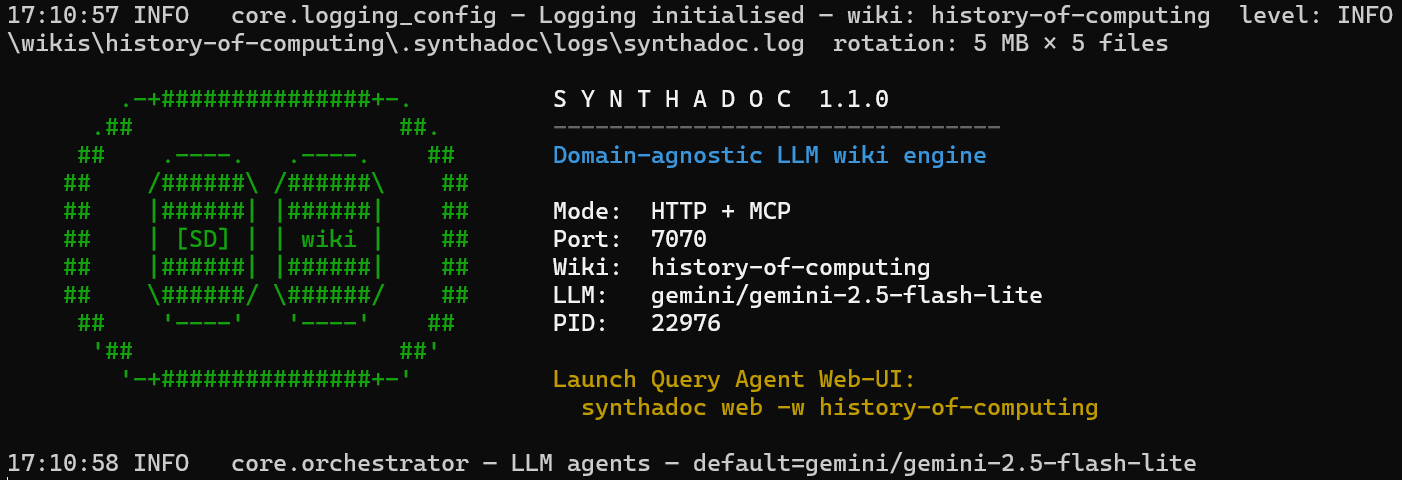
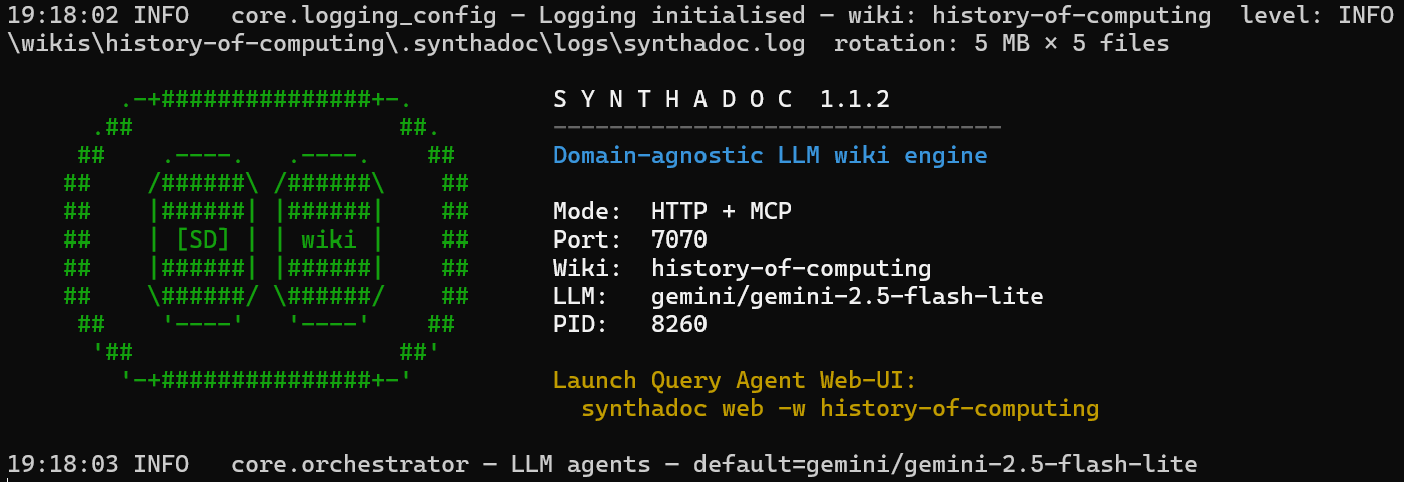
fix: Scheduled job subprocess has no timeout: can hang the scheduler loop indefinitely + v1.1.2 prep (#248)
* fix(live-test): increase streaming token audit timeout to 120s/150s

Under concurrent load (scaffold, ingest, lint, MCP all running during
the live suite), the asyncio event loop can be backlogged enough that
wall-clock time inside asyncio.timeout(60) exceeds the budget even
though actual LLM work takes ~6 seconds.  The context budget test
already uses 120/150 for the same reason; align this test to match.

* fix(orchestrator): remove duplicate imports of CostEstimate and CostGateError

* fix(scheduler): guard proc.communicate() with asyncio.wait_for timeout

A hanging subprocess (LLM call that never returns, llm_timeout_seconds=0)
would block _run_scheduled_job forever and prevent any subsequent
scheduled jobs from firing.

Wraps proc.communicate() with asyncio.wait_for(timeout=job_timeout_seconds).
On timeout: kill the process, record the run as failed, log a warning.
On CancelledError: kill the process before re-raising.

job_timeout_seconds is read from cfg.server.job_timeout_seconds (default
600 s); the function-level fallback is 900 s for callers without config.

* fix(scheduler): align job_timeout_seconds default to 600s (matches ServerConfig)

* fix(scheduler): make job_timeout_seconds required — no silent hardcoded fallback

* test(scheduler): cover _run_scheduled_job timeout and outcome paths

Three new async unit tests verify the subprocess timeout/kill fix:
timeout: hanging proc triggers TimeoutError, proc.kill() called, audit records failed
[…]

diff --git a/synthadoc/core/scheduler.py b/synthadoc/core/scheduler.py
@@ -104,7 +104,9 @@ class Scheduler:
 # Server-side scheduler loop — runs inside synthadoc serve
 # ------------------------------------------------------------------
 
-async def run_scheduler_loop(wiki: str, wiki_root: Path, audit_db: "AuditDB") -> None:
+async def run_scheduler_loop(
+    wiki: str, wiki_root: Path, audit_db: "AuditDB", job_timeout_seconds: int
+) -> None:
     """Asyncio background task: fire scheduled jobs at their cron times."""
     while True:
         now = datetime.now()
@@ -117,7 +119,7 @@ async def run_scheduler_loop(wiki: str, wiki_root: Path, audit_db: "AuditDB") ->
             for entry in sched._load_raw():
                 if _matches_cron(entry.get("cron", ""), now):
                     asyncio.create_task(
-                        _run_scheduled_job(entry, wiki, wiki_root, audit_db)
+                        _run_scheduled_job(entry, wiki, wiki_root, audit_db, job_timeout_seconds)
                     )
         except asyncio.CancelledError:
             raise
@@ -125,8 +127,18 @@ async def run_scheduler_loop(wiki: str, wiki_root: Path, audit_db: "AuditDB") ->
             logger.warning("scheduler loop error: %s", exc)
 
 
+def _kill_proc(proc: object) -> None:
+    """Kill a subprocess, silently ignoring errors (already exited, no permission, etc.)."""
+    if proc is not None:
+        try:
+            proc.kill()  # type: ignore[union-attr]
+        except Exception:
+            pass
+
+
 async def _run_scheduled_job(
-    entry: dict, wiki: str, wiki_root: Path, audit_db: "AuditDB"
+    entry: dict, wiki: str, wiki_root: Path, audit_db: "AuditDB",
+    job_timeout_seconds: int,
 ) -> None:
     """Execute one scheduled job and record the result in the audit DB."""
     run_id = f"run-{uuid.uuid4().hex[:8]}"
@@ -137,6 +149,7 @@ async def _run_scheduled_job(
     logger.info("[schedule] %s  %s  starting", run_id, op)
 
     t0 = time.monotonic()
+    proc = None
     try:
         proc = await asyncio.create_subprocess_exec(
             sys.executable, "-m", "synthadoc", "-w", wiki,
@@ -146,7 +159,9 @@ async def _run_scheduled_job(
             stderr=asyncio.subprocess.PIPE,
             env={**os.environ, "PYTHONIOENCODING": "utf-8"},
         )
-        stdout, stderr = await proc.communicate()
+        stdout, stderr = await asyncio.wait_for(
+            proc.communicate(), timeout=job_timeout_seconds
+        )
         duration = time.monotonic() - t0
         out = _truncate_output(stdout.decode(errors="replace").strip() if stdout else "")
 
@@ -159,7 +174,14 @@ async def _run_scheduled_job(
                 err += f": {stderr.decode(errors='replace').strip()[:300]}"
             await audit_db.record_scheduled_run_finish(run_id, "failed", duration, err, out)
             logger.warning("[schedule] %s  %s  %.1fs  failed (%s)", run_id, op, duration, err)
+    except asyncio.TimeoutError:
+        duration = time.monotonic() - t0
+        _kill_proc(proc)
+        err = f"timed out after {job_timeout_seconds}s"
+        await audit_db.record_scheduled_run_finish(run_id, "failed", duration, err)
+        logger.warning("[schedule] %s  %s  %.1fs  %s", run_id, op, duration, err)
     except asyncio.CancelledError:
+        _kill_proc(proc)
         raise
     except Exception as exc:
         duration = time.monotonic() - t0

diff --git a/tests/core/test_scheduler.py b/tests/core/test_scheduler.py
@@ -1,6 +1,9 @@
 # SPDX-License-Identifier: AGPL-3.0-or-later
 # Copyright (C) 2026 Paul Chen / axoviq.com
-from synthadoc.core.scheduler import Scheduler, ScheduleEntry
+import asyncio
+from unittest.mock import AsyncMock, MagicMock, patch
+
+from synthadoc.core.scheduler import Scheduler, ScheduleEntry, _run_scheduled_job
 
 
 def test_schedule_entry_parses_cron():
@@ -33,3 +36,64 @@ def test_scheduler_apply_from_config(tmp_path):
     assert len(cfg.schedule.jobs) == 2
     assert cfg.schedule.jobs[0].op == "lint"
     assert cfg.schedule.jobs[1].cron == "0 2 * * *"
+
+
+# ------------------------------------------------------------------
+# _run_scheduled_job — subprocess timeout and outcome recording
+# ------------------------------------------------------------------
+
+async def test_run_scheduled_job_timeout_kills_proc(tmp_path):
+    """Hanging subprocess: TimeoutError kills the process and records 'failed'."""
+    audit_db = AsyncMock()
+
+    async def _hang():
+        await asyncio.sleep(9999)
+
+    mock_proc = MagicMock()
+    mock_proc.kill = MagicMock()
+    mock_proc.communicate = _hang
+
+    entry = {"id": "sched-test-timeout", "op": "lint"}
+
+    with patch("asyncio.create_subprocess_exec", AsyncMock(return_value=mock_proc)):
+        await _run_scheduled_job(entry, "test-wiki", tmp_path, audit_db, job_timeout_seconds=0.05)
+
+    mock_proc.kill.assert_called_once()
+    call = audit_db.record_scheduled_run_finish.call_args
+    assert call.args[1] == "failed"
+    assert "timed out" in call.args[3]
+
+
+async def test_run_scheduled_job_success(tmp_path):
+    """Subprocess exits 0: audit records 'success'."""
+    audit_db = AsyncMock()
+
+    mock_proc = MagicMock()
+    mock_proc.returncode = 0
+    mock_proc.communicate = AsyncMock(return_value=(b"all good", b""))
+
+    entry = {"id": "sched-test-ok", "op": "lint"}
+
+    with patch("asyncio.create_subprocess_exec", AsyncMock(return_value=mock_proc)):
+        await _run_scheduled_job(entry, "test-wiki", tmp_path, audit_db, job_timeout_seconds=30)
+
+    call = audit_db.record_scheduled_run_finish.call_args
+    assert call.args[1] == "success"
+
+
+async def test_run_scheduled_job_nonzero_exit(tmp_path):
+    """Subprocess exits non-zero: audit records 'failed' with exit code message."""
+    audit_db = AsyncMock()
+
+    mock_proc = MagicMock()
+    mock_proc.returncode = 2
+    mock_proc.communicate = AsyncMock(return_value=(b"", b"something failed"))
+
+    entry = {"id": "sched-test-fail", "op": "ingest"}
+
+    with patch("asyncio.create_subprocess_exec", AsyncMock(return_value=mock_proc)):
+        await _run_scheduled_job(entry, "test-wiki", tmp_path, audit_db, job_timeout_seconds=30)
+
+    call = audit_db.record_scheduled_run_finish.call_args
+    assert call.args[1] == "failed"
+    assert "exit code 2" in call.args[3]

diff --git a/tests/live/live_plugin_test.py b/tests/live/live_plugin_test.py
@@ -729,8 +729,8 @@ def _test_streaming_query_audit() -> None:
 
     q = "streaming token audit live test"
     path = (f"/query/stream?q={urllib.parse.quote(q)}"
-            f"&session_id={urllib.parse.quote(session_id)}&no_cache=true&timeout_seconds=60")
-    events = _read_full_sse(path, timeout=90)
+            f"&session_id={urllib.parse.quote(session_id)}&no_cache=true&timeout_seconds=120")
+    events = _read_full_sse(path, timeout=150)
 
     error_events = [e for e in events if e.get("event") == "error"]
     assert not error_events, f"SSE query returned error: {error_events[0]['data']}"

diff --git a/synthadoc/core/orchestrator.py b/synthadoc/core/orchestrator.py
@@ -11,7 +11,7 @@ import logging
 from synthadoc.config import Config, load_config
 from synthadoc.errors import DomainBlockedException
 from synthadoc.core.cache import CacheManager
-from synthadoc.core.cost_guard import CostGuard, CostEstimate, CostGateError, CostEstimate, CostGateError
+from synthadoc.core.cost_guard import CostGuard, CostEstimate, CostGateError
 from synthadoc.core.hooks import HookExecutor
 from synthadoc.core.queue import JobQueue
 from synthadoc.observability.telemetry import get_tracer, setup_telemetry

diff --git a/synthadoc/integration/http_server.py b/synthadoc/integration/http_server.py
@@ -576,7 +576,8 @@ def create_app(wiki_root: Path, max_body_bytes: int = _MAX_BODY_BYTES, enable_mc
         # no second init() call needed here.
         audit_db = _AuditDB(wiki_root / ".synthadoc" / "audit.db")
         scheduler = asyncio.create_task(
-            run_scheduler_loop(wiki_root.name, wiki_root, audit_db)
+            run_scheduler_loop(wiki_root.name, wiki_root, audit_db,
+                               job_timeout_seconds=cfg.server.job_timeout_seconds)
         )
 
         try:

diff --git a/synthadoc/cli/_init.py b/synthadoc/cli/_init.py
@@ -210,7 +210,7 @@ domain = "{domain}"
 [server]
 port = {port}  # change this if running multiple wikis simultaneously
 # host = "0.0.0.0"  # bind to all interfaces — no built-in auth, restrict via firewall
-# job_timeout_seconds = 600  # max seconds a single job runs before being killed (default: 600)
+job_timeout_seconds = 600  # max seconds a single job runs before being killed
 
 [agents]
 default = {{ provider = "gemini", model = "gemini-2.5-flash-lite" }}

diff --git a/docs/design.md b/docs/design.md
@@ -1,6 +1,6 @@
 # Synthadoc — Design Document
 
-**Version:** 1.1.0  
+**Version:** 1.1.2  
 **Audience:** Product users who want to understand how the system works; developers adding features, skills, and plugins.
 
 **Document owners:** Paul Chen, William Johnason
@@ -3213,6 +3213,24 @@ All three files share identical body content generated from the same template; t
 ---
 
 ## Appendix A — Release Feature Index
+
+### v1.1.2
+
+- **Exponential backoff on transient URL fetch failures** — jobs failing with transient errors (connection timeouts, 5xx responses, dropped TCP connections including `RemoteProtocolError`) now re-queue with exponential backoff: `min(base × 2^(attempt−1), 300)` seconds (default base 30 s). Previously all failures retried immediately, exhausting the retry budget within seconds. `dequeue()` skips any job whose `retry_after` timestamp is still in the future; other jobs run normally during the wait window. See [§14 Job Queue](#14-job-queue).
+- **Accurate retry outcome in job warning logs** — the transient-failure warning now reads the current attempt count from the database before logging, so it correctly reports `will retry` vs. `final attempt` (was always `will retry` regardless of retry state).
+- **Scheduler subprocess timeout** — scheduled jobs (`lint`, `ingest --batch`, etc.) are now guarded by `asyncio.wait_for(proc.communicate(), timeout=job_timeout_seconds)`; a hung subprocess is killed after the timeout and the run is recorded as `failed`. Previously a stalled subprocess could block the scheduler task indefinitely. `job_timeout_seconds` defaults to 600 s and is now shown (uncommented) in fresh-init `config.toml`.
+- **Streaming query token and cost accuracy** — the streaming query audit record was written with `tokens=0, cost_usd=0.0`; it now records the actual LLM token usage and cost from the streamed response.
+- **Cost hard gate timing** — the cost hard gate now fires before LLM tokens are spent and pages are written; previously the gate ran after the LLM call completed, allowing partial page writes before rejection.
+- **Session state memory growth bounded** — `_session_state` in the HTTP server is pruned at 100 concurrent sessions (LRU eviction) to prevent unbounded memory growth on long-running servers.
+- **Streamed `<think>` block cleanup** — a leaked fallback asyncio task is now cancelled when a streaming response ends inside an unclosed `<think>` block (e.g. reasoning-model responses cut off mid-think).
+- **Config validation for staging fields** — `staging_policy` values other than `off`, `all`, and `threshold`, and non-numeric `staging_confidence_min`, were silently accepted and caused runtime errors; they now raise a `ConfigError` at server startup.
+- **Job status guard on retry** — retrying a job that is already `in_progress`, `done`, or `skipped` now returns an error instead of silently resetting it to `pending`.
+- **Jobs endpoint performance** — `GET /jobs/{id}` and `DELETE /jobs/{id}` now use a direct primary-key lookup instead of a full table scan; eliminates O(N) reads on large job queues.
+- **Vector migration GC safety** — the background vector migration `asyncio.Task` is now held in a strong reference to prevent premature garbage collection mid-run.
+- **Quota error stack trace suppression** — Qwen 403 errors and Claude Code session-limit exhaustion now emit a concise warning naming the actionable config key, instead of a full stack trace.
+- **Scaffold agent JSON robustness** — `MiniMax-M3` and other reasoning models can truncate mid-JSON; the scaffold agent now handles truncated JSON output gracefully rather than failing the job.
+- **Staging/Candidates section in agent skill files** — `AGENTS.md`, `CLAUDE.md`, and `GEMINI.md` generated by `synthadoc scaffold` now include a `## Staging and Candidates` section.
+- **Citation failure pagination fix** — `GET /audit/citation-failures` was applying the `LIMIT` in SQL before filtering by `page_slug`, returning incorrect results for paginated per-page queries; filtering now runs before the limit.
 
 ### v1.1.0
 

diff --git a/README-pypi.md b/README-pypi.md
@@ -14,7 +14,7 @@
       '-+###############+-'
 
        S Y N T H A D O C
-    Community Edition  v1.1.0
+    Community Edition  v1.1.2
   ────────────────────────────────
   Domain-agnostic LLM wiki engine
 ```
@@ -29,9 +29,9 @@
 [![CLI](https://img.shields.io/badge/dynamic/json?url=https%3A%2F%2Fraw.githubusercontent.com%2Faxoviq-ai%2Fsynthadoc%2Fbadges%2Fdocs%2Fbadges.json&query=%24.cli_commands&label=CLI%20commands&color=darkblue)](https://github.com/axoviq-ai/synthadoc)
 [![Obsidian](https://img.shields.io/badge/dynamic/json?url=https%3A%2F%2Fraw.githubusercontent.com%2Faxoviq-ai%2Fsynthadoc%2Fbadges%2Fdocs%2Fbadges.json&query=%24.obsidian_commands&label=Obsidian%20commands&color=blueviolet)](https://github.com/axoviq-ai/synthadoc/tree/main/obsidian-plugin)
 [![MCP](https://img.shields.io/badge/dynamic/json?url=https%3A%2F%2Fraw.githubusercontent.com%2Faxoviq-ai%2Fsynthadoc%2Fbadges%2Fdocs%2Fbadges.json&query=%24.mcp_tools&label=MCP%20tools&color=orange)](https://github.com/axoviq-ai/synthadoc/blob/main/docs/user-quick-start-guide.md#appendix-i--connect-claude-via-mcp)
-[![Version](https://img.shields.io/badge/Community%20Edition-v1.1.0-brightgreen.svg)](https://github.com/axoviq-ai/synthadoc)
+[![Version](https://img.shields.io/badge/Community%20Edition-v1.1.2-brightgreen.svg)](https://github.com/axoviq-ai/synthadoc)
 
-**Document version: v1.1.0**
+**Document version: v1.1.2**
 
 **Engineered for solo users and enterprises alike, providing a domain-specific knowledge base that scales seamlessly while maintaining accuracy through autonomous self-optimization.**
 

diff --git a/README.md b/README.md
@@ -14,7 +14,7 @@
       '-+###############+-'
 
        S Y N T H A D O C
-    Community Edition  v1.1.0
+    Community Edition  v1.1.2
   ────────────────────────────────
   Domain-agnostic LLM wiki engine
 ```
@@ -29,9 +29,9 @@
 [![CLI](https://img.shields.io/badge/dynamic/json?url=https%3A%2F%2Fraw.githubusercontent.com%2Faxoviq-ai%2Fsynthadoc%2Fbadges%2Fdocs%2Fbadges.json&query=%24.cli_commands&label=CLI%20commands&color=darkblue)](https://github.com/axoviq-ai/synthadoc)
 [![Obsidian](https://img.shields.io/badge/dynamic/json?url=https%3A%2F%2Fraw.githubusercontent.com%2Faxoviq-ai%2Fsynthadoc%2Fbadges%2Fdocs%2Fbadges.json&query=%24.obsidian_commands&label=Obsidian%20commands&color=blueviolet)](https://github.com/axoviq-ai/synthadoc/tree/main/obsidian-plugin)
 [![MCP](https://img.shields.io/badge/dynamic/json?url=https%3A%2F%2Fraw.githubusercontent.com%2Faxoviq-ai%2Fsynthadoc%2Fbadges%2Fdocs%2Fbadges.json&query=%24.mcp_tools&label=MCP%20tools&color=orange)](https://github.com/axoviq-ai/synthadoc/blob/main/docs/user-quick-start-guide.md#appendix-i--connect-claude-via-mcp)
-[![Version](https://img.shields.io/badge/Community%20Edition-v1.1.0-brightgreen.svg)](https://github.com/axoviq-ai/synthadoc)
+[![Version](https://img.shields.io/badge/Community%20Edition-v1.1.2-brightgreen.svg)](https://github.com/axoviq-ai/synthadoc)
 
-**Document version: v1.1.0**
+**Document version: v1.1.2**
 
 **Engineered for solo users and enterprises alike, providing a domain-specific knowledge base that scales seamlessly while maintaining accuracy through autonomous self-optimization.**
 

diff --git a/docs/user-quick-start-guide.md b/docs/user-quick-start-guide.md
@@ -1,6 +1,6 @@
 # Synthadoc User Quick-Start Guide
 
-**Version: v1.1.0 (Community Edition)**
+**Version: v1.1.2 (Community Edition)**
 
 This guide walks you through the **History of Computing** demo wiki — a fully wired
 Synthadoc environment with 13 pre-built pages and six raw source files that cover every
